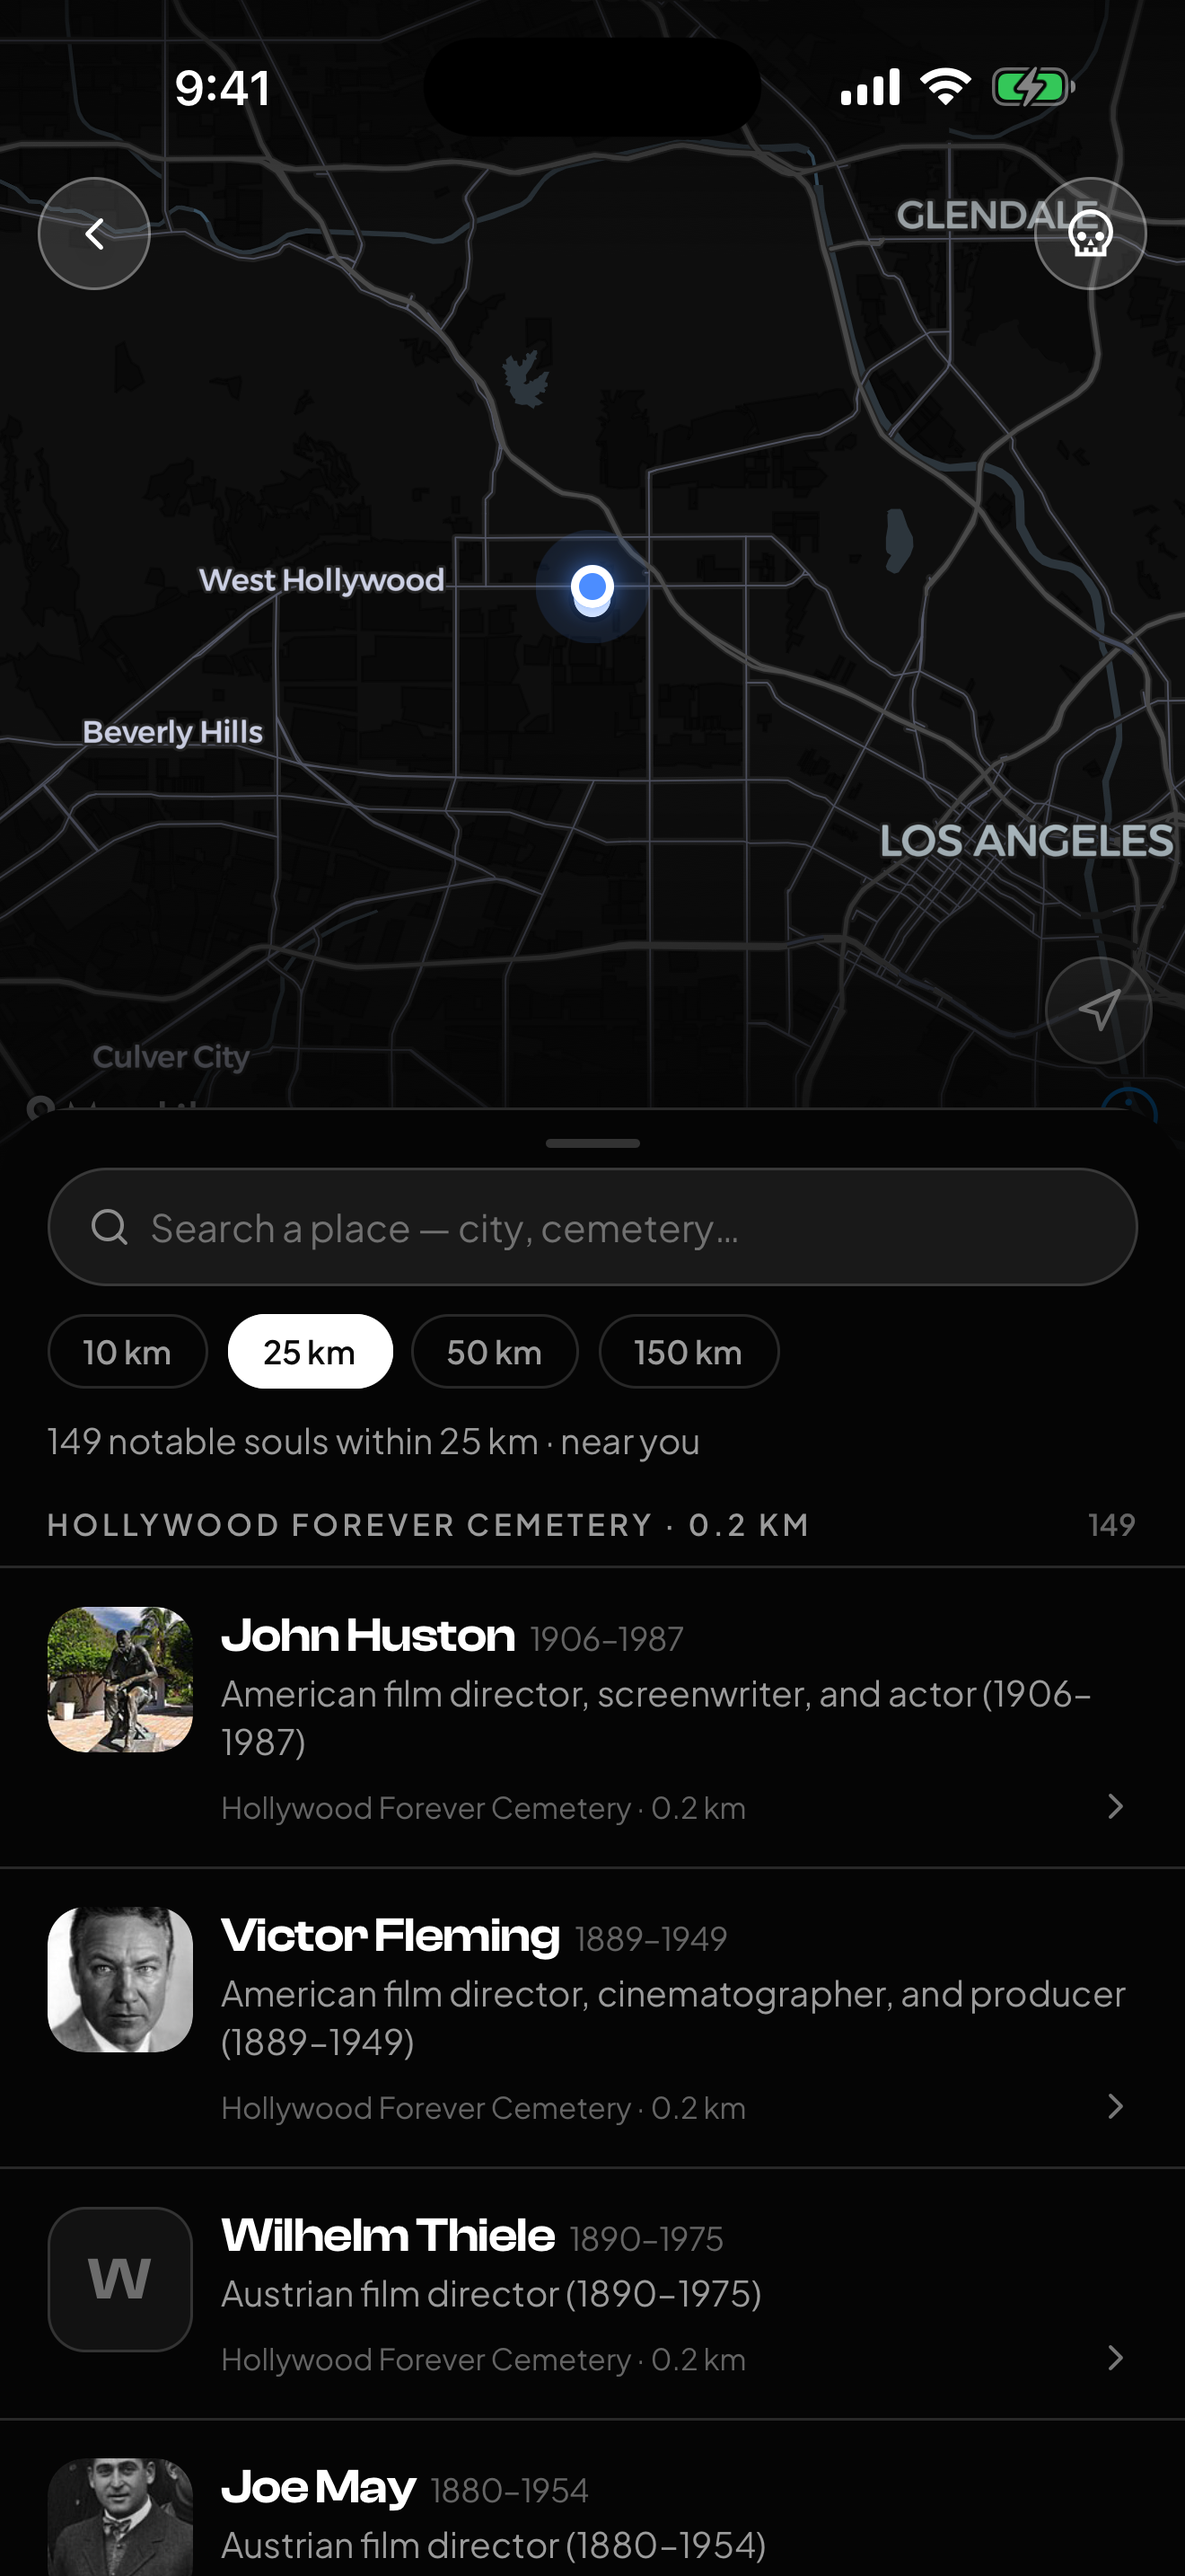
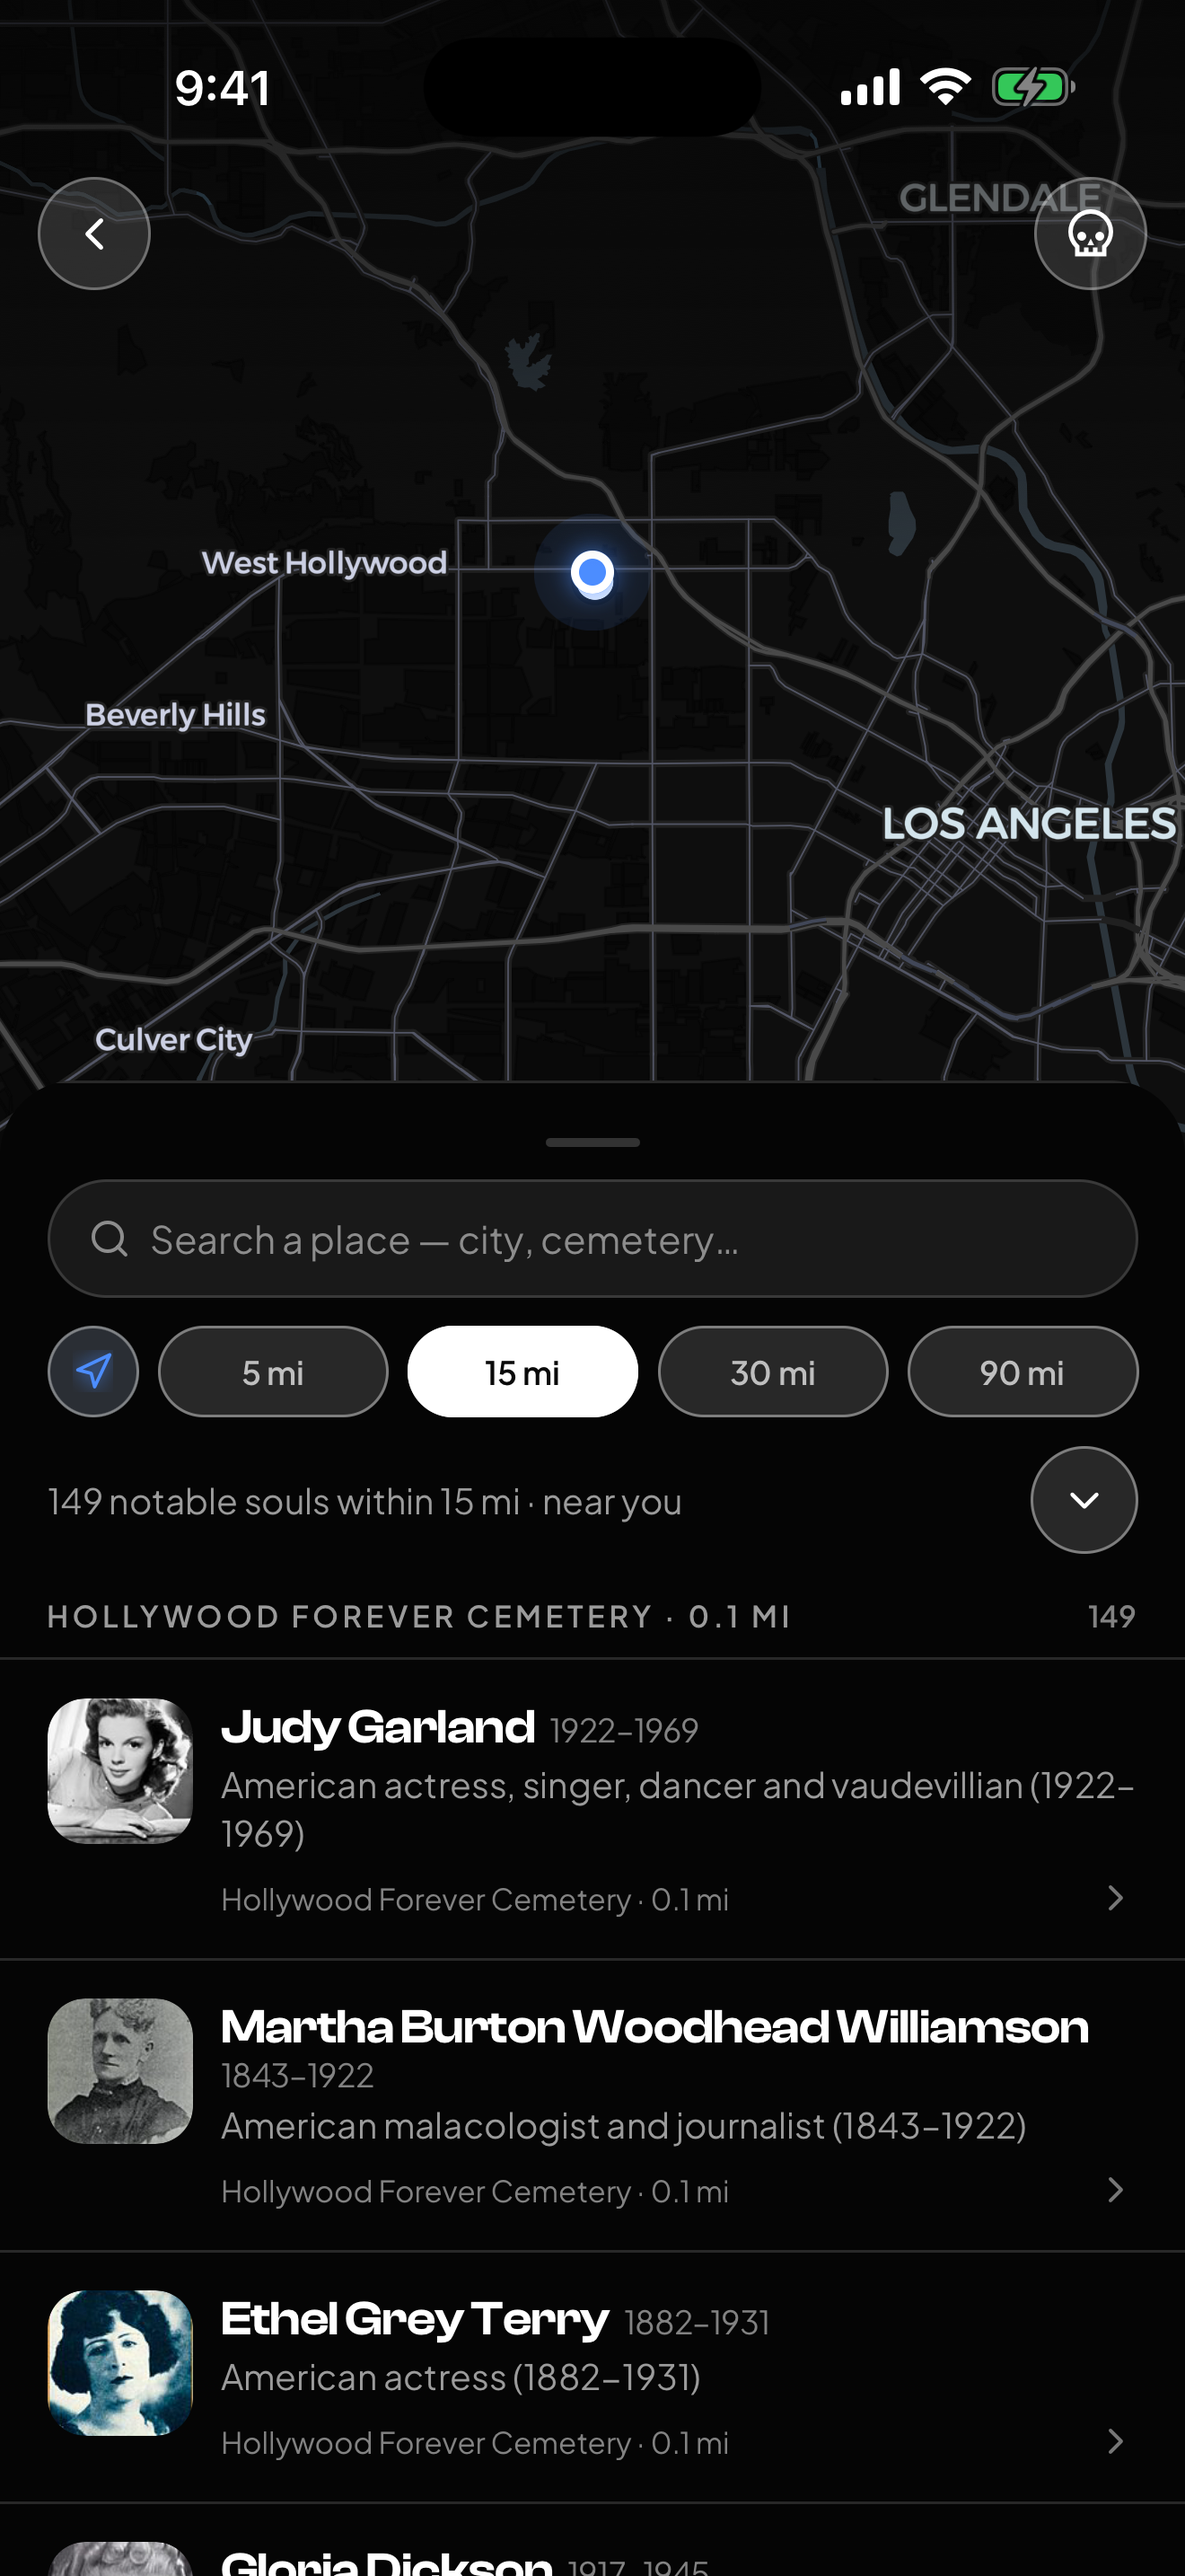
feat: add app store screenshots and submission checklist, create store copy

diff --git a/docs/store-copy.md b/docs/store-copy.md
@@ -1,0 +1,79 @@
+# App Store copy
+
+Paste-ready listing text for **Nearly Departed**. Keep this file in sync with
+what's live in App Store Connect — it's the source of truth for the next update.
+
+## App name
+
+```
+Nearly Departed
+```
+
+## Subtitle (30 char max)
+
+```
+The notable dead, nearby
+```
+
+## Promotional text (170 char max — editable without review)
+
+```
+The most interesting people nearby are already dead. Find the writers, outlaws, and legends buried around you — and the stories of how they lived.
+```
+
+## Description
+
+```
+Nearly Departed maps the notable dead buried near you — writers, outlaws, inventors, musicians, the famous and the forgotten — each with the story of a life, a block from yours.
+
+Tap "use my location" and the map fills with the remarkable people resting nearby. Or search anywhere: a city you're visiting, a cemetery you've wondered about, the town you grew up in. Every soul comes with a biography drawn from public records, so you don't just find a grave — you meet a neighbor.
+
+WHAT YOU GET
+• A discovery map of notable burials, near you or anywhere you search
+• Life stories, portraits, and dates pulled from Wikidata and Wikipedia
+• Save the souls you want to remember, and earn your standing in the archive
+• Directions to the cemetery via Apple Maps
+• Cemetourists: our field guide to visiting gravesites with respect
+
+BUILT DIFFERENTLY
+• No account required — explore everything as a guest
+• No ads, no analytics, no tracking. Public records, not surveillance
+• Location is used only while the app is open, only to find burials near you
+• Optional sign-in syncs your saves across devices — and you can delete your account in the app anytime
+
+Burial records come from community-maintained public sources (Wikidata, Wikipedia, OpenStreetMap). Pins mark cemeteries, not exact plots — verify before you travel, obey posted hours, and treat every site with care.
+
+The dead are patient. They've been waiting for you.
+```
+
+## Keywords (100 char max, comma-separated, no spaces)
+
+```
+grave,cemetery,famous,burial,history,memorial,headstone,genealogy,tombstone,notable,dead,travel
+```
+
+Deliberately omits "nearly", "departed", and "app" — the app name already ranks
+for those. Omits competitor names (e.g. Find a Grave): trademarked terms in
+keywords are a metadata-rejection trigger.
+
+## URLs
+
+- Support: `https://nearly-departed.miacodes.com/support`
+- Marketing: `https://nearly-departed.miacodes.com`
+- Privacy policy: `https://nearly-departed.miacodes.com/privacy`
+
+## Copyright
+
+```
+2026 Small Parts Studio, LLC
+```
+
+## What to Test (TestFlight)
+
+```
+• Discovery — use your location or search a city; drag the results sheet down to see the full map
+• Distances — Settings (gear on your profile) toggles km/mi; defaults to your device's region
+• Your archive — set a display name and a ghoul, save souls, watch your rank climb
+• Sign-in — email codes arrive from Nearly Departed <signin@smallpartsstudio.com>; Sign in with Apple also works
+• Account deletion — Profile → Delete account removes everything
+```

diff --git a/docs/submission-checklist.md b/docs/submission-checklist.md
@@ -1,0 +1,72 @@
+# App Store submission — protocol
+
+App: **Nearly Departed** · ASC ID `6802525537` · bundle `com.miadugas.nearlydeparted`
+Seller: **Small Parts Studio, LLC** · Apple Team `CJAFZA5NP9`
+
+## 1. Before you touch App Store Connect
+
+- [ ] Backend awake: Supabase project `lazmmkvavwicxophadmt` not paused. Free tier
+      pauses after ~7 idle days — a pause during review = rejection. Either
+      commit the keep-alive workflow or upgrade for the review month.
+- [ ] Sign-in works on a real device (email code + Sign in with Apple).
+- [ ] Account deletion works: Profile → Delete account.
+
+## 2. Version page (App Store tab → 1.0.2)
+
+| Field | Value |
+| --- | --- |
+| Version | `1.0.2` |
+| Build | the latest processed build |
+| Copyright | `2026 Small Parts Studio, LLC` |
+| Support URL | `https://nearly-departed.miacodes.com/support` |
+| Marketing URL | `https://nearly-departed.miacodes.com` |
+| Screenshots | `docs/screenshots/appstore/` (6.9", 1320×2868) |
+
+Promo text, description, and keywords: see `docs/store-copy.md`.
+
+## 3. App Information
+
+- Primary category **Travel**, secondary **Reference**
+- Content rights: **contains third-party content** + rights confirmed
+  (Wikidata CC0, Wikipedia CC BY-SA, OpenStreetMap ODbL — attributed in app)
+- Age rating: **None** to every content question; **No** to unrestricted web
+  access and to user-generated content → lands at 4+
+
+## 4. App Privacy (must be Published, not just saved)
+
+| Data type | Purpose | Linked to identity | Tracking |
+| --- | --- | --- | --- |
+| Contact Info → Email Address | App Functionality | Yes | No |
+| Contact Info → Name (display name) | App Functionality | Yes | No |
+| User Content → Other User Content (favorites, avatar) | App Functionality | Yes | No |
+| Location → Precise Location | App Functionality | **No** | No |
+
+Privacy policy URL: `https://nearly-departed.miacodes.com/privacy`
+
+## 5. Pricing and Availability
+
+- Free · availability: all countries
+
+## 6. App Review Information
+
+- **Sign-in required: unchecked** — the app is fully usable as a guest
+- Notes:
+
+> Sign-in is optional — every feature works as a guest with no account. An
+> account only syncs saved favorites, display name, and avatar across devices.
+> To test accounts, Sign in with Apple is available on the sign-in screen.
+> In-app account deletion is at Profile → Delete account. Location is used only
+> while the app is open, to find notable burials nearby; if location is
+> declined, "search anywhere" works instead (try "Hollywood Forever").
+
+- Contact: Mia Dugas · miadugas@outlook.com · phone on file
+
+## 7. Release
+
+- **Manually release this version** (so launch isn't at 3am)
+- Then **Add for Review** → **Submit**
+
+## 8. After approval
+
+- Swap the landing page's beta badges for App Store links
+- Watch `crash_reports` in Supabase for real-world fatals
